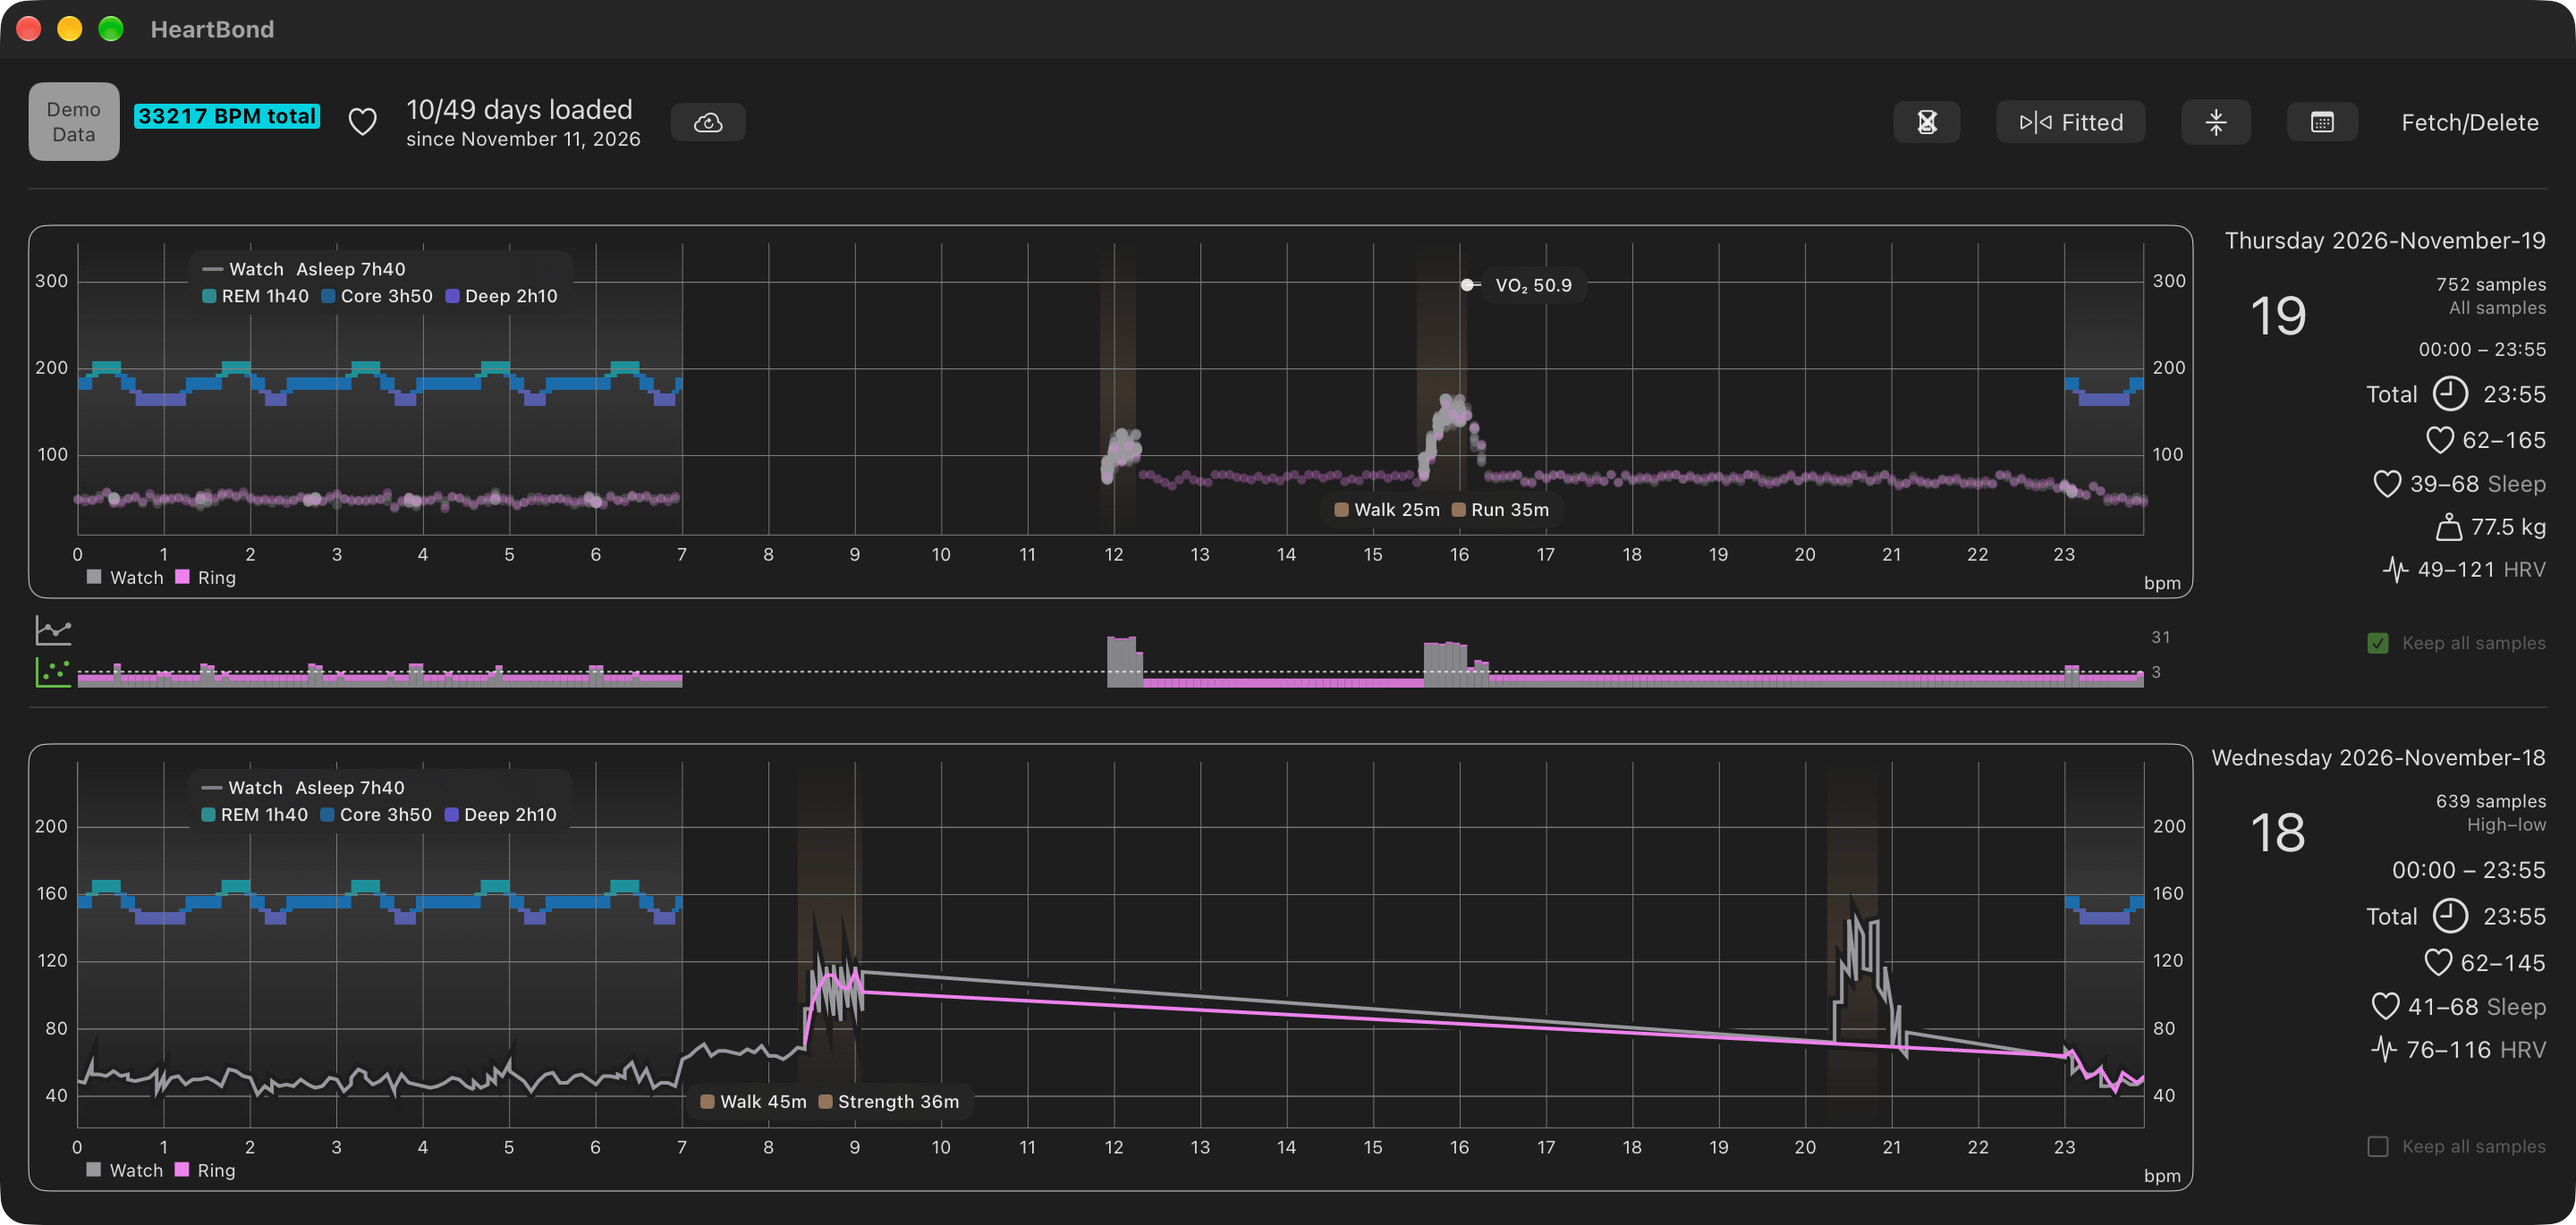
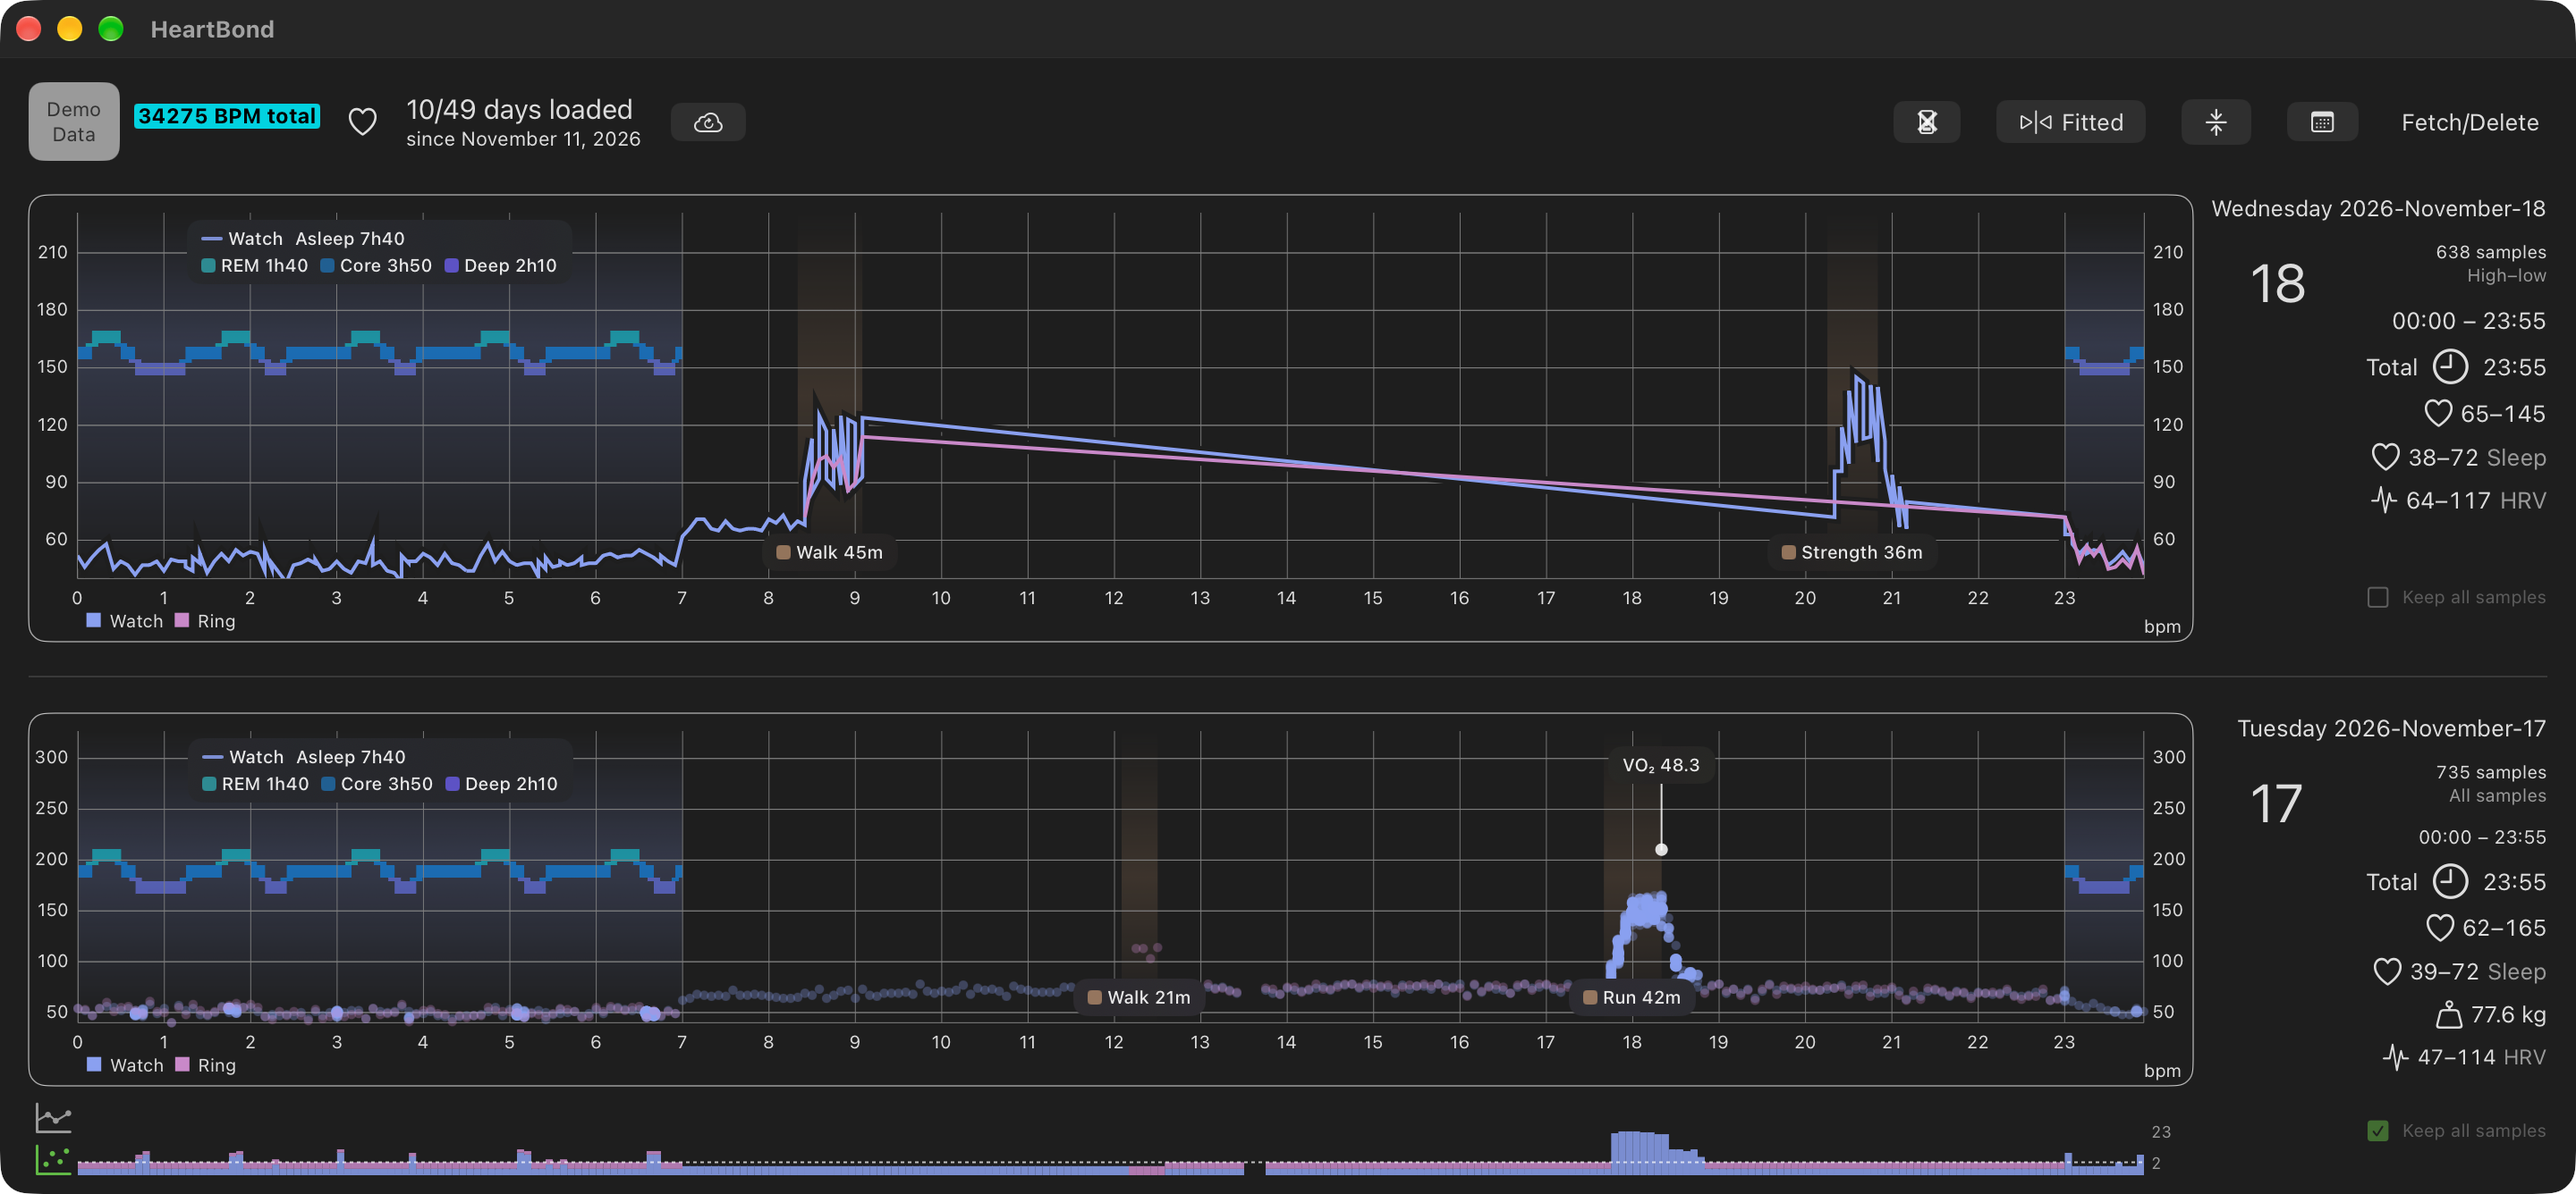
Site update: HRV timeline

diff --git a/app/routes/home.module.css b/app/routes/home.module.css
@@ -1,3 +1,8 @@
+/*
+ * SPDX-FileCopyrightText: © 2026-Present IKI Systems
+ * SPDX-License-Identifier: LicenseRef-Proprietary
+ */
+
 /* From home.component.ts's `styles` block. */
 .hero {
   background: var(--surface-2);
@@ -40,7 +45,7 @@
 }
 
 /* The capture is flush to the window. Its corner is a 48px circle on
-   the 2880×1370 file. A single percentage would turn that into an ellipse,
+   the 2880×1336 file. A single percentage would turn that into an ellipse,
    because each axis resolves against a different side, so the two values
    keep the curve circular as the image scales. The file's top and bottom
    hairline is lighter than the sides. A translucent ring would blend with
@@ -50,7 +55,7 @@
   position: relative;
   width: min(92%, var(--max-width));
   margin: 0 auto;
-  border-radius: 1.667% / 3.504%;
+  border-radius: 1.667% / 3.593%;
   overflow: hidden;
 }
 
@@ -73,7 +78,7 @@
 
 .hero__caption {
   width: min(92%, var(--max-width));
-  /* The 2880×1370 capture has no transparent pad under the window
+  /* The 2880×1336 capture has no transparent pad under the window
      (bottom pad is 0px), so the caption sits a normal 2rem below it. */
   margin: 2rem auto 0;
   color: var(--text-secondary);
@@ -101,6 +106,53 @@
 
 .section__lead {
   color: var(--text-secondary);
+}
+
+/* The HRV Timeline capture is a tall Mac window, not the wide day graph the
+   hero frames. Two things the hero does are wrong for it:
+
+   - no clip and no overlay ring. The file's own corners are already
+     transparent, so the window arrives rounded. The hero's radius is a
+     percentage pair tuned to 2880×1336; resolved against these sides it would
+     oval the corner, and a second stroke would sit visibly beside the one the
+     capture already has.
+   - a width cap rather than a share of the column. At 92% of --max-width this
+     window would be blown up well past its natural size; 440px keeps it near
+     it on a wide screen and still lets it shrink on a phone. */
+.guide__figure {
+  width: min(100%, 440px);
+  margin: 1.4rem auto 0;
+}
+
+.guide__shot {
+  display: block;
+  width: 100%;
+  height: auto;
+}
+
+/* Same first-line treatment as the hero caption — darker and a step larger for
+   the sentence naming the image, plain secondary text after it. The hero's own
+   class cannot be reused: it is sized to min(92%, var(--max-width)), which
+   would run the caption wider than the 440px figure above it. */
+.guide__caption {
+  margin-top: 1rem;
+  color: var(--text-secondary);
+  font-size: 0.84rem;
+  line-height: 1.5;
+}
+
+.guide__caption p {
+  margin-bottom: 0.5rem;
+}
+
+.guide__caption p:first-child {
+  color: var(--text-primary);
+  font-size: 0.9rem;
+  line-height: 1.45;
+}
+
+.guide__caption p:last-child {
+  margin-bottom: 0;
 }
 
 .badges {

diff --git a/app/routes/home.tsx b/app/routes/home.tsx
@@ -1,3 +1,8 @@
+/*
+ * SPDX-FileCopyrightText: © 2026-Present IKI Systems
+ * SPDX-License-Identifier: LicenseRef-Proprietary
+ */
+
 import { Link, type MetaArgs } from 'react-router';
 import { headFor } from '../head';
 import { asset } from '../lib/asset';
@@ -41,7 +46,7 @@ export default function Home() {
               src={asset(home.screenshot.src)}
               alt={home.screenshot.alt}
               width={2880}
-              height={1370}
+              height={1336}
               fetchPriority="high"
             />
           </div>
@@ -51,6 +56,38 @@ export default function Home() {
             ))}
           </figcaption>
         </figure>
+      </section>
+
+      {/* The guide is the product word — it is the accessibility name on the
+          draggable marker. The copy describes the Trend line only as what the
+          capture visibly does, never as a score or a clinical figure. */}
+      <section className={cx('container', s.section)}>
+        <h2>{home.guide.heading}</h2>
+        {home.guide.paragraphs.map(para => (
+          <p className={s.section__lead} key={para}>
+            {para}
+          </p>
+        ))}
+        {/* One figure today. The list shape stays because captures differ in
+            window size, so each carries its own width and height rather than
+            a pair fixed in the markup — a wrong pair reserves the wrong box
+            and shifts the page as the image loads. */}
+        {home.guide.figures.map(fig => (
+          <figure className={s.guide__figure} key={fig.src}>
+            <img
+              className={s.guide__shot}
+              src={asset(fig.src)}
+              alt={fig.alt}
+              width={fig.width}
+              height={fig.height}
+            />
+            <figcaption className={s.guide__caption}>
+              {fig.caption.map(para => (
+                <p key={para}>{para}</p>
+              ))}
+            </figcaption>
+          </figure>
+        ))}
       </section>
 
       <section className={cx('container', s.section)}>

diff --git a/src/theme-prepaint.js b/src/theme-prepaint.js
@@ -1,3 +1,8 @@
+/*
+ * SPDX-FileCopyrightText: © 2026-Present IKI Systems
+ * SPDX-License-Identifier: LicenseRef-Proprietary
+ */
+
 // Resolve and apply the saved theme before first paint, so the page never
 // flashes the wrong palette. Inlined into every page's <head> verbatim by
 // scripts/extract-theme-prelude.mjs, ahead of any React code: it must run

diff --git a/src/theme-tokens.css b/src/theme-tokens.css
@@ -1,3 +1,8 @@
+/*
+ * SPDX-FileCopyrightText: © 2026-Present IKI Systems
+ * SPDX-License-Identifier: LicenseRef-Proprietary
+ */
+
 /* The palette. Inlined into every page's <head> before the deferred
    stylesheet loads, which is what stops a light flash on dark systems.
    styles.css only consumes these via var(--*); this file is the one place a

diff --git a/app/components/Navbar.module.css b/app/components/Navbar.module.css
@@ -1,3 +1,8 @@
+/*
+ * SPDX-FileCopyrightText: © 2026-Present IKI Systems
+ * SPDX-License-Identifier: LicenseRef-Proprietary
+ */
+
 /* Was the `styles:` block of navbar.component.ts. Angular's emulated view
    encapsulation scoped every one of these to that component, so they are a
    CSS Module here rather than rules in the global sheet. */

diff --git a/app/root.module.css b/app/root.module.css
@@ -1,3 +1,8 @@
+/*
+ * SPDX-FileCopyrightText: © 2026-Present IKI Systems
+ * SPDX-License-Identifier: LicenseRef-Proprietary
+ */
+
 /* Was `:host` + the bare `main` rule in app.component.ts. Angular scoped both
    to the shell component; here they are anchored on a wrapper class so the
    `main` rule cannot leak onto any other page's markup.

diff --git a/app/components/Footer.module.css b/app/components/Footer.module.css
@@ -1,3 +1,8 @@
+/*
+ * SPDX-FileCopyrightText: © 2026-Present IKI Systems
+ * SPDX-License-Identifier: LicenseRef-Proprietary
+ */
+
 /* Was the footer half of app.component.ts's `styles:` block. The shell's own
    `:host` and `main` rules live in app/root.module.css; these are the rules
    that only ever applied to the footer.

diff --git a/src/styles.css b/src/styles.css
@@ -1,3 +1,8 @@
+/*
+ * SPDX-FileCopyrightText: © 2026-Present IKI Systems
+ * SPDX-License-Identifier: LicenseRef-Proprietary
+ */
+
 /* HeartBond support site: global styles.
    Pink-lavender identity sampled from the app icon field, with a cooler
    periwinkle for links. Classic is a paper-like variant of the same family;

diff --git a/vite.config.ts b/vite.config.ts
@@ -1,3 +1,8 @@
+/*
+ * SPDX-FileCopyrightText: © 2026-Present IKI Systems
+ * SPDX-License-Identifier: LicenseRef-Proprietary
+ */
+
 import { reactRouter } from '@react-router/dev/vite';
 import { resolve } from 'node:path';
 import { defineConfig, searchForWorkspaceRoot } from 'vite';

diff --git a/app/routes.ts b/app/routes.ts
@@ -1,3 +1,8 @@
+/*
+ * SPDX-FileCopyrightText: © 2026-Present IKI Systems
+ * SPDX-License-Identifier: LicenseRef-Proprietary
+ */
+
 import { type RouteConfig, index, route } from '@react-router/dev/routes';
 import { routeEntries } from '../scripts/lib/route-matrix.mjs';
 

diff --git a/react-router.config.ts b/react-router.config.ts
@@ -1,3 +1,8 @@
+/*
+ * SPDX-FileCopyrightText: © 2026-Present IKI Systems
+ * SPDX-License-Identifier: LicenseRef-Proprietary
+ */
+
 import type { Config } from '@react-router/dev/config';
 import { prerenderPaths } from './scripts/lib/route-matrix.mjs';
 

diff --git a/app/components/Footer.tsx b/app/components/Footer.tsx
@@ -1,3 +1,8 @@
+/*
+ * SPDX-FileCopyrightText: © 2026-Present IKI Systems
+ * SPDX-License-Identifier: LicenseRef-Proprietary
+ */
+
 import { Link } from 'react-router';
 import s from './Footer.module.css';
 import { useLocaleApi } from '../lib/locale';
